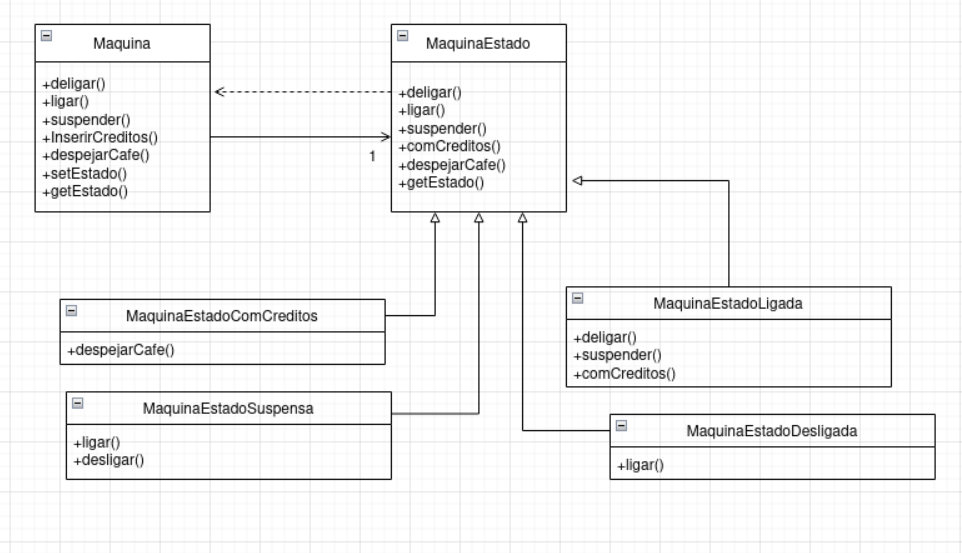
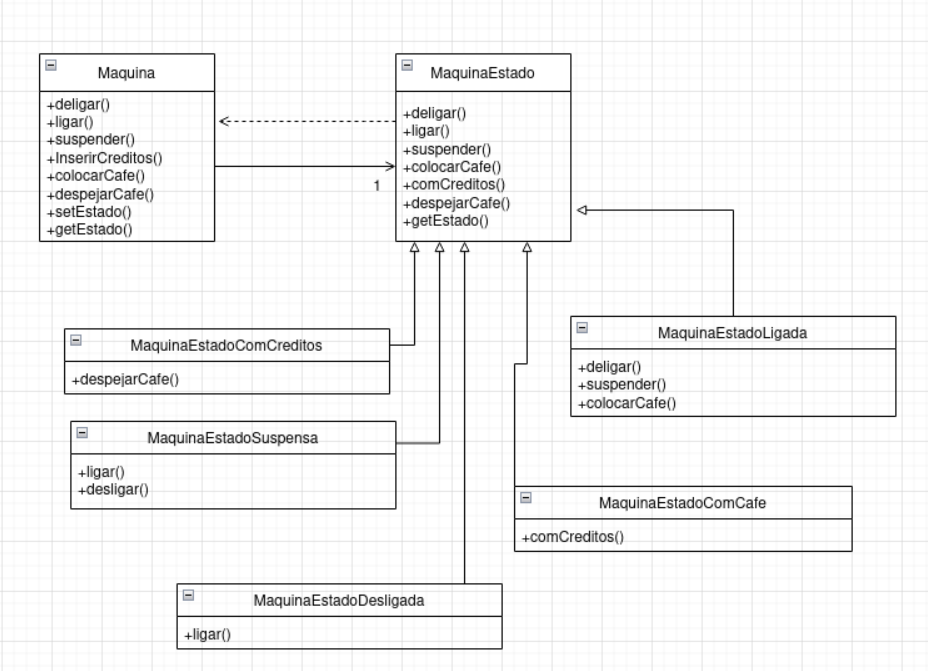
Finaliza Atv2

Changed region(s): [[0.0312, 0.0307, 0.9688, 0.9837], [0.75, 0.3996, 0.7812, 0.4304]]

diff --git a/src/test/java/MaquinaComCreditosTest.java b/src/test/java/MaquinaComCreditosTest.java
@@ -1,0 +1,52 @@
+import org.junit.jupiter.api.BeforeEach;
+import org.junit.jupiter.api.Test;
+import state.*;
+
+import static org.junit.jupiter.api.Assertions.*;
+
+public class MaquinaComCreditosTest {
+    Maquina maquina;
+
+    @BeforeEach
+    public void setup() {
+        maquina = new Maquina();
+        maquina.ligar();
+        maquina.colocarCafe();
+        maquina.inserirCreditos();
+    }
+
+    @Test
+    public void testMaquinaComCreditos() {
+        assertEquals(MaquinaEstadoComCreditos.getInstance(), maquina.getEstado());
+    }
+
+    @Test
+    public void testDesligar() {
+        assertFalse(maquina.desligar());
+        assertEquals(MaquinaEstadoComCreditos.getInstance(), maquina.getEstado());
+    }
+
+    @Test
+    public void testSuspender() {
+        assertFalse(maquina.suspender());
+        assertEquals(MaquinaEstadoComCreditos.getInstance(), maquina.getEstado());
+    }
+
+    @Test
+    public void testInserirCreditos() {
+        assertTrue(maquina.inserirCreditos());
+        assertEquals(MaquinaEstadoComCreditos.getInstance(), maquina.getEstado());
+    }
+
+    @Test
+    public void testDespejarCafe() {
+        assertTrue(maquina.despejarCafe());
+        assertEquals(MaquinaEstadoLigada.getInstance(), maquina.getEstado());
+    }
+
+    @Test
+    public void testColocarCafe() {
+        assertFalse(maquina.colocarCafe());
+        assertEquals(MaquinaEstadoComCreditos.getInstance(), maquina.getEstado());
+    }
+}

diff --git a/src/test/java/MaquinaComCafeTest.java b/src/test/java/MaquinaComCafeTest.java
@@ -1,0 +1,45 @@
+import org.junit.jupiter.api.BeforeEach;
+import org.junit.jupiter.api.Test;
+import state.*;
+
+import static org.junit.jupiter.api.Assertions.*;
+
+public class MaquinaComCafeTest {
+    Maquina maquina;
+
+    @BeforeEach
+    public void setup() {
+        maquina = new Maquina();
+        maquina.ligar();
+        maquina.colocarCafe();
+    }
+
+    @Test
+    public void testMaquinaComCafe() {
+        assertEquals(MaquinaEstadoComCafe.getInstance(), maquina.getEstado());
+    }
+
+    @Test
+    public void testDesligar() {
+        assertFalse(maquina.desligar());
+        assertEquals(MaquinaEstadoComCafe.getInstance(), maquina.getEstado());
+    }
+
+    @Test
+    public void testSuspender() {
+        assertFalse(maquina.suspender());
+        assertEquals(MaquinaEstadoComCafe.getInstance(), maquina.getEstado());
+    }
+
+    @Test
+    public void testInserirCreditos() {
+        assertTrue(maquina.inserirCreditos());
+        assertEquals(MaquinaEstadoComCreditos.getInstance(), maquina.getEstado());
+    }
+
+    @Test
+    public void testDespejarCafe() {
+        assertFalse(maquina.despejarCafe());
+        assertEquals(MaquinaEstadoComCafe.getInstance(), maquina.getEstado());
+    }
+}

diff --git a/src/test/java/MaquinaLigadaTest.java b/src/test/java/MaquinaLigadaTest.java
@@ -32,14 +32,7 @@ public class MaquinaLigadaTest {
 
     @Test
     public void testInserirCreditos() {
-        assertTrue(maquina.inserirCreditos());
-        assertEquals(MaquinaEstadoComCreditos.getInstance(), maquina.getEstado());
-    }
-
-    @Test
-    public void testDespejarCafe() {
-        maquina.inserirCreditos();
-        assertTrue(maquina.despejarCafe());
+        assertFalse(maquina.inserirCreditos());
         assertEquals(MaquinaEstadoLigada.getInstance(), maquina.getEstado());
     }
 
@@ -47,5 +40,11 @@ public class MaquinaLigadaTest {
     public void testSemCreditos(){
         assertFalse(maquina.despejarCafe());
         assertEquals(MaquinaEstadoLigada.getInstance(), maquina.getEstado());
+    }
+
+    @Test
+    public void testColocarCafe(){
+        assertTrue(maquina.colocarCafe());
+        assertEquals(MaquinaEstadoComCafe.getInstance(), maquina.getEstado());
     }
 }

diff --git a/src/test/java/MaquinaSuspensaTest.java b/src/test/java/MaquinaSuspensaTest.java
@@ -26,8 +26,17 @@ public class MaquinaSuspensaTest {
     }
 
     @Test
+    public void testSuspenderMaquinaComCafe() {
+        maquina.ligar();
+        maquina.colocarCafe();
+        assertFalse(maquina.suspender());
+        assertEquals(MaquinaEstadoComCafe.getInstance(), maquina.getEstado());
+    }
+
+    @Test
     public void testSuspenderMaquinaComCreditos() {
         maquina.ligar();
+        maquina.colocarCafe();
         maquina.inserirCreditos();
         assertFalse(maquina.suspender());
         assertEquals(MaquinaEstadoComCreditos.getInstance(), maquina.getEstado());

diff --git a/src/main/java/state/MaquinaEstadoComCafe.java b/src/main/java/state/MaquinaEstadoComCafe.java
@@ -1,0 +1,21 @@
+package state;
+
+public class MaquinaEstadoComCafe extends MaquinaEstado{
+
+    private static final MaquinaEstadoComCafe instance = new MaquinaEstadoComCafe();
+
+    @Override
+    public String getEstado() {
+        return "Com Café";
+    }
+
+    public static MaquinaEstadoComCafe getInstance() {
+        return instance;
+    }
+
+    @Override
+    public boolean comCreditos(Maquina maquina) {
+        maquina.setEstado(MaquinaEstadoComCreditos.getInstance());
+        return true;
+    }
+}

diff --git a/src/main/java/state/MaquinaEstadoLigada.java b/src/main/java/state/MaquinaEstadoLigada.java
@@ -25,8 +25,8 @@ public class MaquinaEstadoLigada extends MaquinaEstado {
         return true;
     }
 
-    public boolean comCreditos(Maquina maquina) {
-        maquina.setEstado(MaquinaEstadoComCreditos.getInstance());
+    public boolean colocarCafe(Maquina maquina) {
+        maquina.setEstado(MaquinaEstadoComCafe.getInstance());
         return true;
     }
 }

diff --git a/src/main/java/state/MaquinaEstado.java b/src/main/java/state/MaquinaEstado.java
@@ -16,6 +16,10 @@ public abstract class MaquinaEstado {
         return false;
     }
 
+    public boolean colocarCafe(Maquina maquina) {
+        return false;
+    }
+
     public boolean comCreditos(Maquina maquina) {
         return false;
     }

diff --git a/src/main/java/state/Maquina.java b/src/main/java/state/Maquina.java
@@ -28,6 +28,10 @@ public class Maquina {
         return estado.despejarCafe(this);
     }
 
+    public boolean colocarCafe() {
+        return estado.colocarCafe(this);
+    }
+
     public MaquinaEstado getEstado() {
         return estado;
     }
